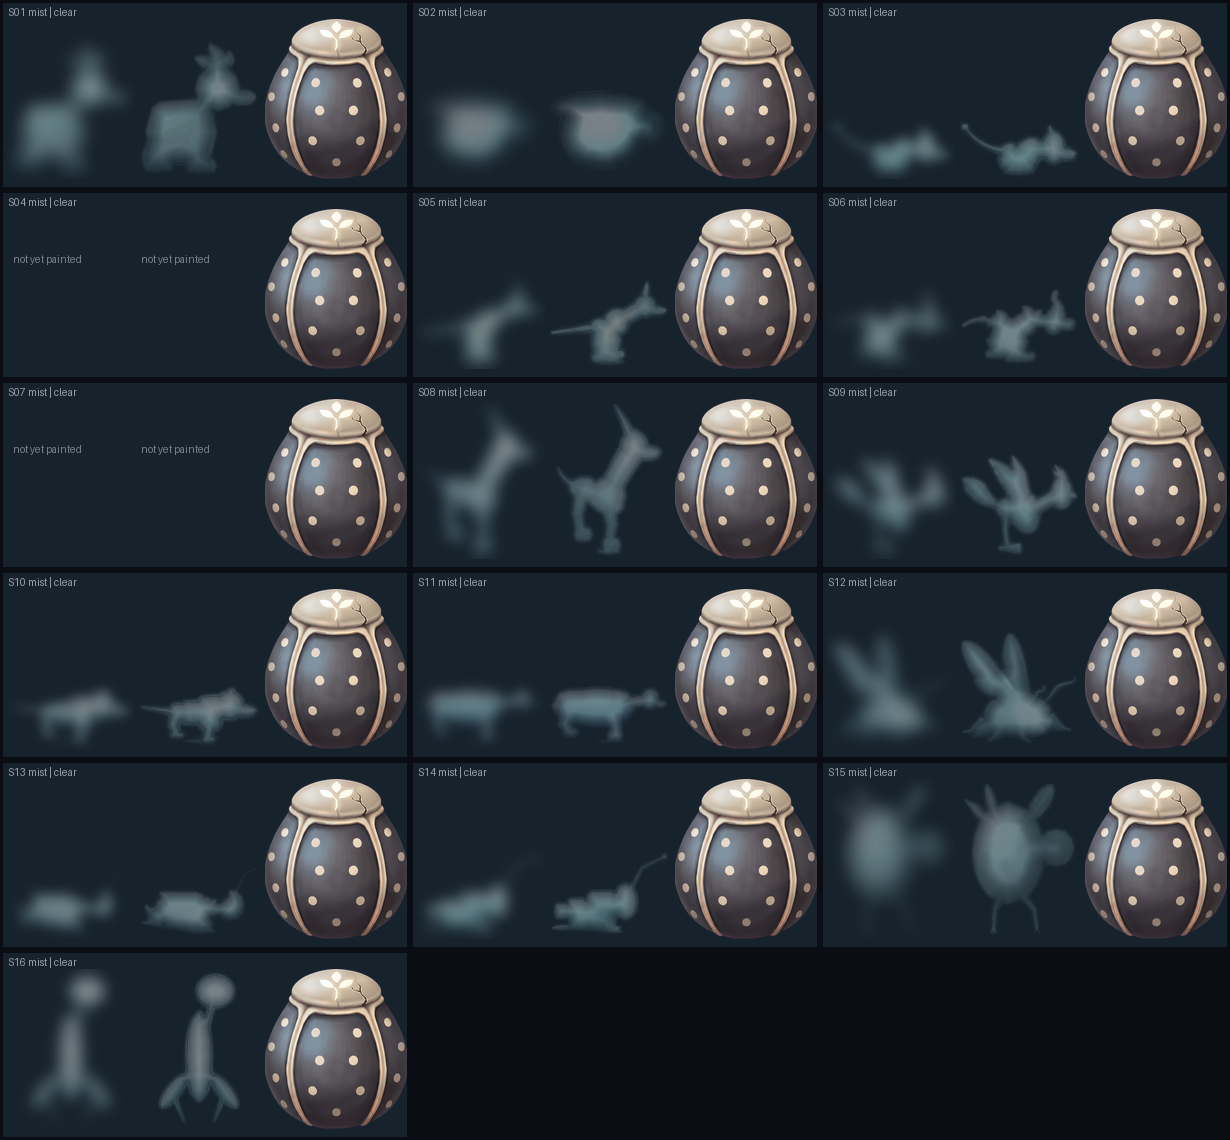
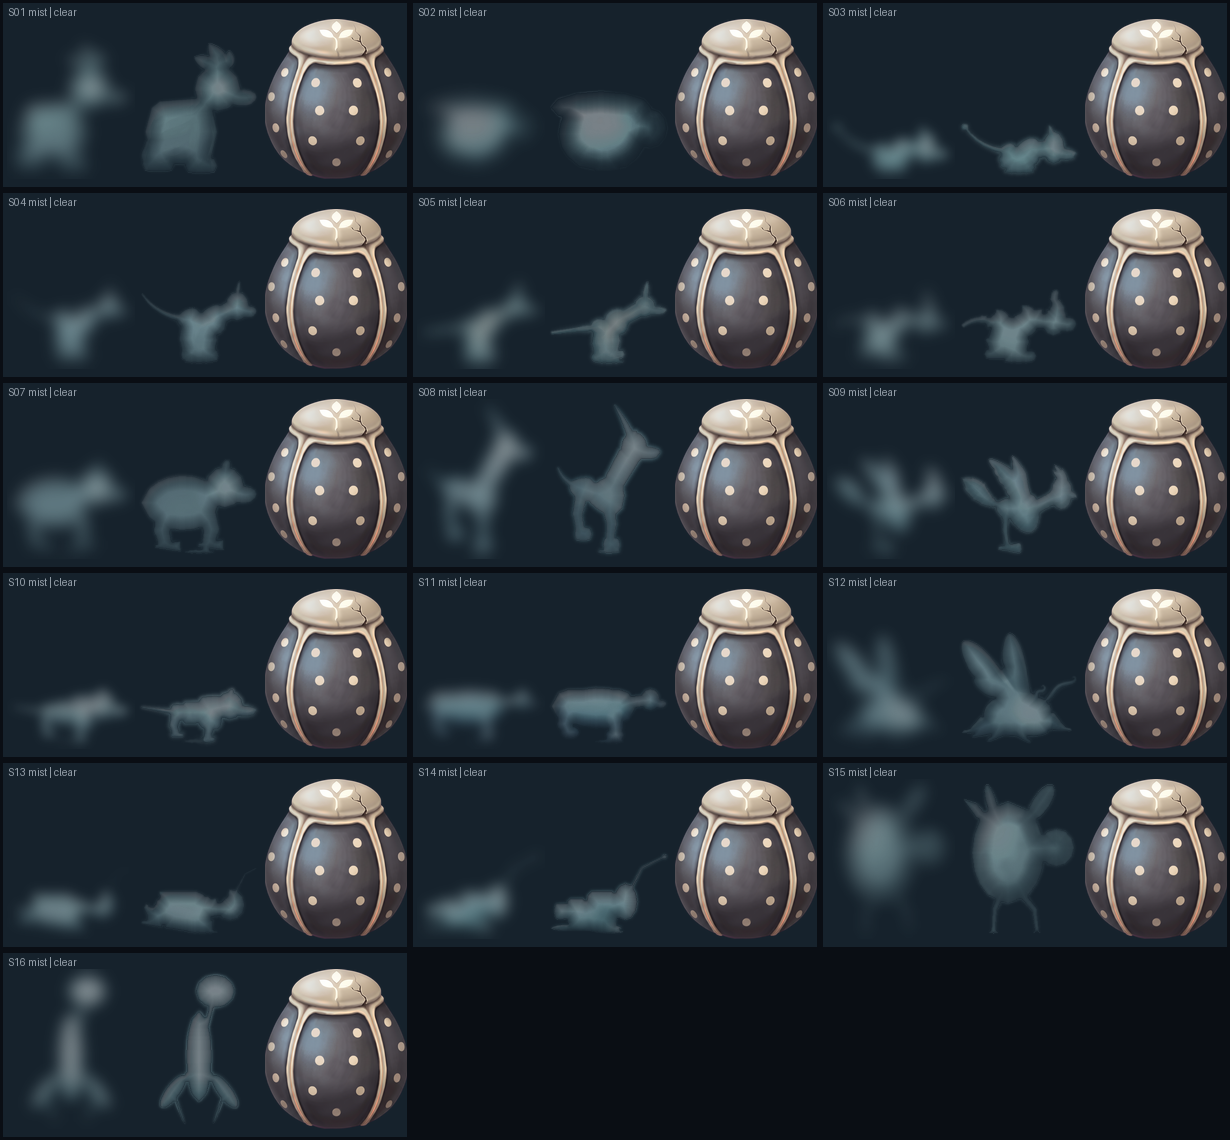
Pods masters pass 63: the halos S04 and S07 painted, the contact sheet updated

Changed region(s): [[0.0, 0.3991, 0.2163, 0.4912], [0.1236, 0.2456, 0.2163, 0.3377], [0.0309, 0.2456, 0.1236, 0.3377]]

diff --git a/art/station-masters/pods/tools/halo_contact.py b/art/station-masters/pods/tools/halo_contact.py
@@ -1,0 +1,21 @@
+"""Pass 63: halo/halo-contact-1x.png with S04 and S07 painted. The sheet is the earlier one (3 panels a row, each: the species' mist figure, its clear figure, the large pod): the mist and clear slots of the S04 and S07 panels, which read "not yet painted",
+are cleared to the panel tone (22, 34, 44) and the new mibi-halo slices are composited there at the offsets the other panels use (mist at (7 + 410 col, 19 + 190 row), clear 128 px to its right: measured by an exact match of S01 and S08 on the old sheet).
+python3 -I tools/halo_contact.py"""
+import os, sys
+import numpy as np
+from PIL import Image
+ROOT = os.path.dirname(os.path.dirname(os.path.abspath(__file__))); os.chdir(ROOT)
+sheet = Image.open("halo/halo-contact-1x.png").convert("RGB"); BG = (22, 34, 44)
+def slot(sp):
+    i = int(sp[1:]) - 1; col, row = i % 3, i // 3; return 7 + 410 * col, 19 + 190 * row
+def comp(sp, kind):
+    im = Image.open(f"slices/mibi-halo-{sp}-128x160-{kind}.png").convert("RGBA"); b = Image.new("RGBA", im.size, BG + (255,)); b.alpha_composite(im); return b.convert("RGB")
+if __name__ == "__main__":
+    # check the offsets on a species already on the sheet (S08 and S01), exact
+    for sp in ("S01", "S08"):
+        x, y = slot(sp); a = np.asarray(sheet.crop((x, y, x + 128, y + 160))).astype(int); b = np.asarray(comp(sp, "mist")).astype(int); print(sp, "mist slot max abs diff vs the sheet:", int(np.abs(a - b).max()))
+    for sp in sys.argv[1:]:
+        x, y = slot(sp)
+        for kind, dx in (("mist", 0), ("clear", 128)): sheet.paste(Image.new("RGB", (128, 160), BG), (x + dx, y)); sheet.paste(comp(sp, kind), (x + dx, y))
+        sheet.paste(Image.new("RGB", (404 - 20, 14), BG), (x - 4, y - 16)) if False else None
+    if len(sys.argv) > 1: sheet.save("halo/halo-contact-1x.png")

diff --git a/art/station-masters/pods/README.md b/art/station-masters/pods/README.md
@@ -87,10 +87,14 @@ Each slice is named by the register id it replaces (`room`, `ring`, `page`, `tra
 | `mibi-halo-S02-128x160-mist` | 128×160 |  | held: held: its placeholder is a featureless oval; until its painting exists the build shows mibi-halo-S02-128x160-mist in both states | the S02 halo figure, mist: a diffusion of the corrected clear figure, so the two cross-fade cleanly |
 | `mibi-halo-S03-128x160-clear` | 128×160 |  | placeholder (pass 37 (re-fit verdict)): placeholder, re-cut from the standard painting when it lands | the S03 halo figure, clear: a figure of soft cool light painted by the image tool, masked with the species' own silhouette (soft edge), a soft halo about 6 px outside it, graded to the brief |
 | `mibi-halo-S03-128x160-mist` | 128×160 |  | placeholder (pass 41 (the low mists signed)): placeholder, re-cut from the standard painting when it lands | the S03 halo figure, mist: a diffusion of the corrected clear figure, so the two cross-fade cleanly |
+| `mibi-halo-S04-128x160-clear` | 128×160 |  | new: the halo figure, round 2 (the light painted by the image tool over the silhouette); awaiting the verdict | the S04 halo figure, clear: a figure of soft cool light painted by the image tool, masked with the species' own silhouette (soft edge), a soft halo about 6 px outside it, graded to the brief |
+| `mibi-halo-S04-128x160-mist` | 128×160 |  | new: the halo figure, round 2 (the light painted by the image tool over the silhouette); awaiting the verdict | the S04 halo figure, mist: a diffusion of the corrected clear figure, so the two cross-fade cleanly |
 | `mibi-halo-S05-128x160-clear` | 128×160 |  | placeholder (pass 37 (re-fit verdict)): placeholder, re-cut from the standard painting when it lands | the S05 halo figure, clear: a figure of soft cool light painted by the image tool, masked with the species' own silhouette (soft edge), a soft halo about 6 px outside it, graded to the brief |
 | `mibi-halo-S05-128x160-mist` | 128×160 |  | placeholder (pass 37 (re-fit verdict)): placeholder, re-cut from the standard painting when it lands | the S05 halo figure, mist: a diffusion of the corrected clear figure, so the two cross-fade cleanly |
 | `mibi-halo-S06-128x160-clear` | 128×160 |  | placeholder (pass 37 (re-fit verdict)): placeholder, re-cut from the standard painting when it lands | the S06 halo figure, clear: a figure of soft cool light painted by the image tool, masked with the species' own silhouette (soft edge), a soft halo about 6 px outside it, graded to the brief |
 | `mibi-halo-S06-128x160-mist` | 128×160 |  | placeholder (pass 37 (re-fit verdict)): placeholder, re-cut from the standard painting when it lands | the S06 halo figure, mist: a diffusion of the corrected clear figure, so the two cross-fade cleanly |
+| `mibi-halo-S07-128x160-clear` | 128×160 |  | new: the halo figure, round 2 (the light painted by the image tool over the silhouette); awaiting the verdict | the S07 halo figure, clear: a figure of soft cool light painted by the image tool, masked with the species' own silhouette (soft edge), a soft halo about 6 px outside it, graded to the brief |
+| `mibi-halo-S07-128x160-mist` | 128×160 |  | new: the halo figure, round 2 (the light painted by the image tool over the silhouette); awaiting the verdict | the S07 halo figure, mist: a diffusion of the corrected clear figure, so the two cross-fade cleanly |
 | `mibi-halo-S08-128x160-clear` | 128×160 |  | placeholder (pass 37 (re-fit verdict)): placeholder, re-cut from the standard painting when it lands | the S08 halo figure, clear: a figure of soft cool light painted by the image tool, masked with the species' own silhouette (soft edge), a soft halo about 6 px outside it, graded to the brief |
 | `mibi-halo-S08-128x160-mist` | 128×160 |  | placeholder (pass 37 (re-fit verdict)): placeholder, re-cut from the standard painting when it lands | the S08 halo figure, mist: a diffusion of the corrected clear figure, so the two cross-fade cleanly |
 | `mibi-halo-S09-128x160-clear` | 128×160 |  | signed (pass 23 verdict): master: cut from the species' standard painting | the S09 halo figure, clear: a figure of soft cool light painted by the image tool, masked with the species' own silhouette (soft edge), a soft halo about 6 px outside it, graded to the brief |
@@ -588,6 +592,14 @@ Each slice is named by the register id it replaces (`room`, `ring`, `page`, `tra
 | `trait-picture-frame-376x264-unread` | 376×264 |  | withdrawn (pass 59 verdict): withdrawn with the pane (the withdrawal signed by the art director): the open chapter page (origin/design-pods-open d00f372a) has no per-cell frame and no stand-in card; nothing more is cut for it (the pass 58 sill frames were never signed) | frost texture at 0.9 alpha under the frame (pass 58: bottom rail deepened to a 20 px sill between the side rails (columns 9 to 365): the rails' body colour (60, 77, 92), opaque, flat, no ornament; its top edge is the top rail's inner profile mirrored; the rails keep their full profile to the bottom edge, with the old rail's two dark bottom rows) |
 
 <!-- end of the generated Slices section -->
+
+## Pass 63 - the run of 2026-10-09 07:05 UTC, part 1: halos S04 and S07 (every claim below was measured on the files)
+
+The run released by the lead after the spend controls (model `gemini-3-pro-image`, one request at a time, 250 MXN per Pacific day, counted from real tokens). Pacific day 2026-10-09 started at 0 MXN.
+- **Requests** (`log/calls.jsonl`): 2, one per picture, both HTTP 200, 1K, 1 reference each: halo-S04-clear 508 prompt + 1305 candidate + 188 thinking tokens = 0.1802 USD (3.60 MXN); halo-S07-clear 508 + 1284 + 229 = 0.1826 USD (3.65 MXN). Booked so far on the day: 7.26 MXN.
+- **Slices** (`tools/halo3.py S04 S07`; recorded new): `mibi-halo-S04-128x160-{mist,clear}` and `mibi-halo-S07-128x160-{mist,clear}`; the figure's peak and mean grey as halo3 reports them: S04 clear 108.5 and 49.6, mist 99.9 and 31.4; S07 clear 109.2 and 49.5, mist 102.4 and 37.3 (the brief: clear peak about 105 to 110, mean 45 to 55).
+- **Contact sheet** `halo/halo-contact-1x.png` (`tools/halo_contact.py S04 S07`): the S04 and S07 panels, which read "not yet painted", now show the new mist and clear figures at the offsets the other panels use (checked first: the S01 and S08 mist slots match the old sheet exactly, max abs diff 0). 14 of 16 species are painted.
+- Nothing is placed before the art director's verdict.
 
 ## Pass 62 - three pixels on S01 eyes, the record
 
